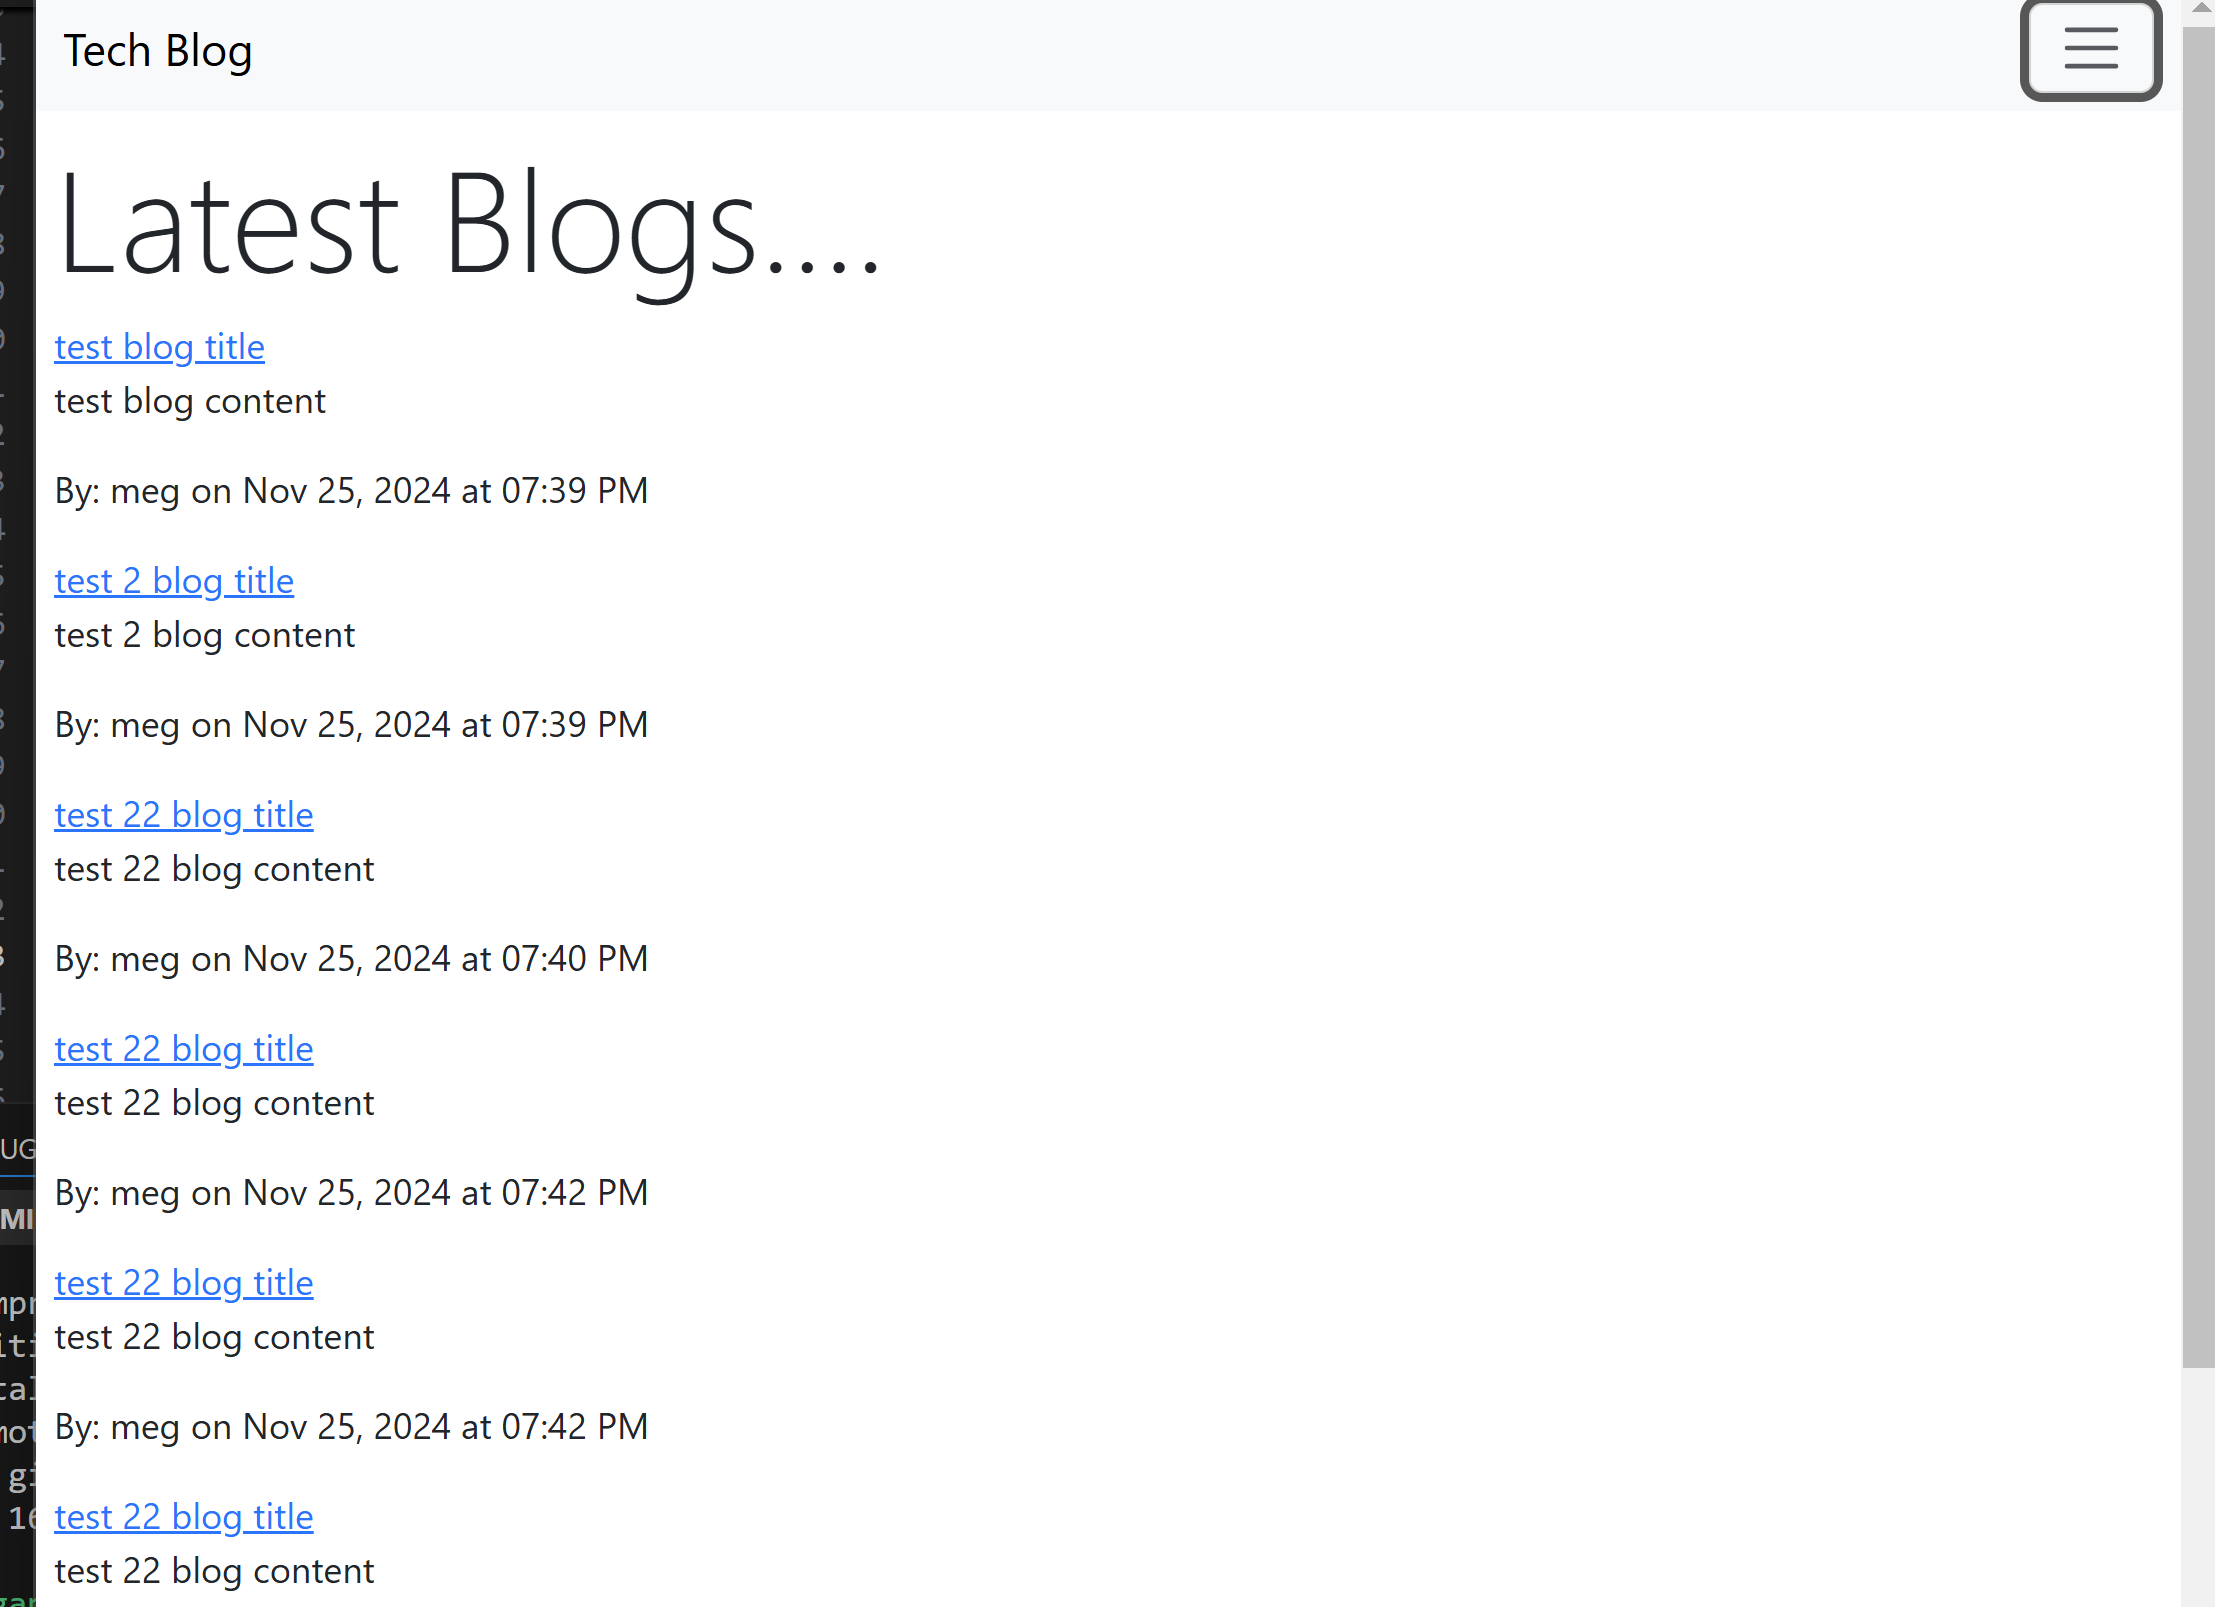
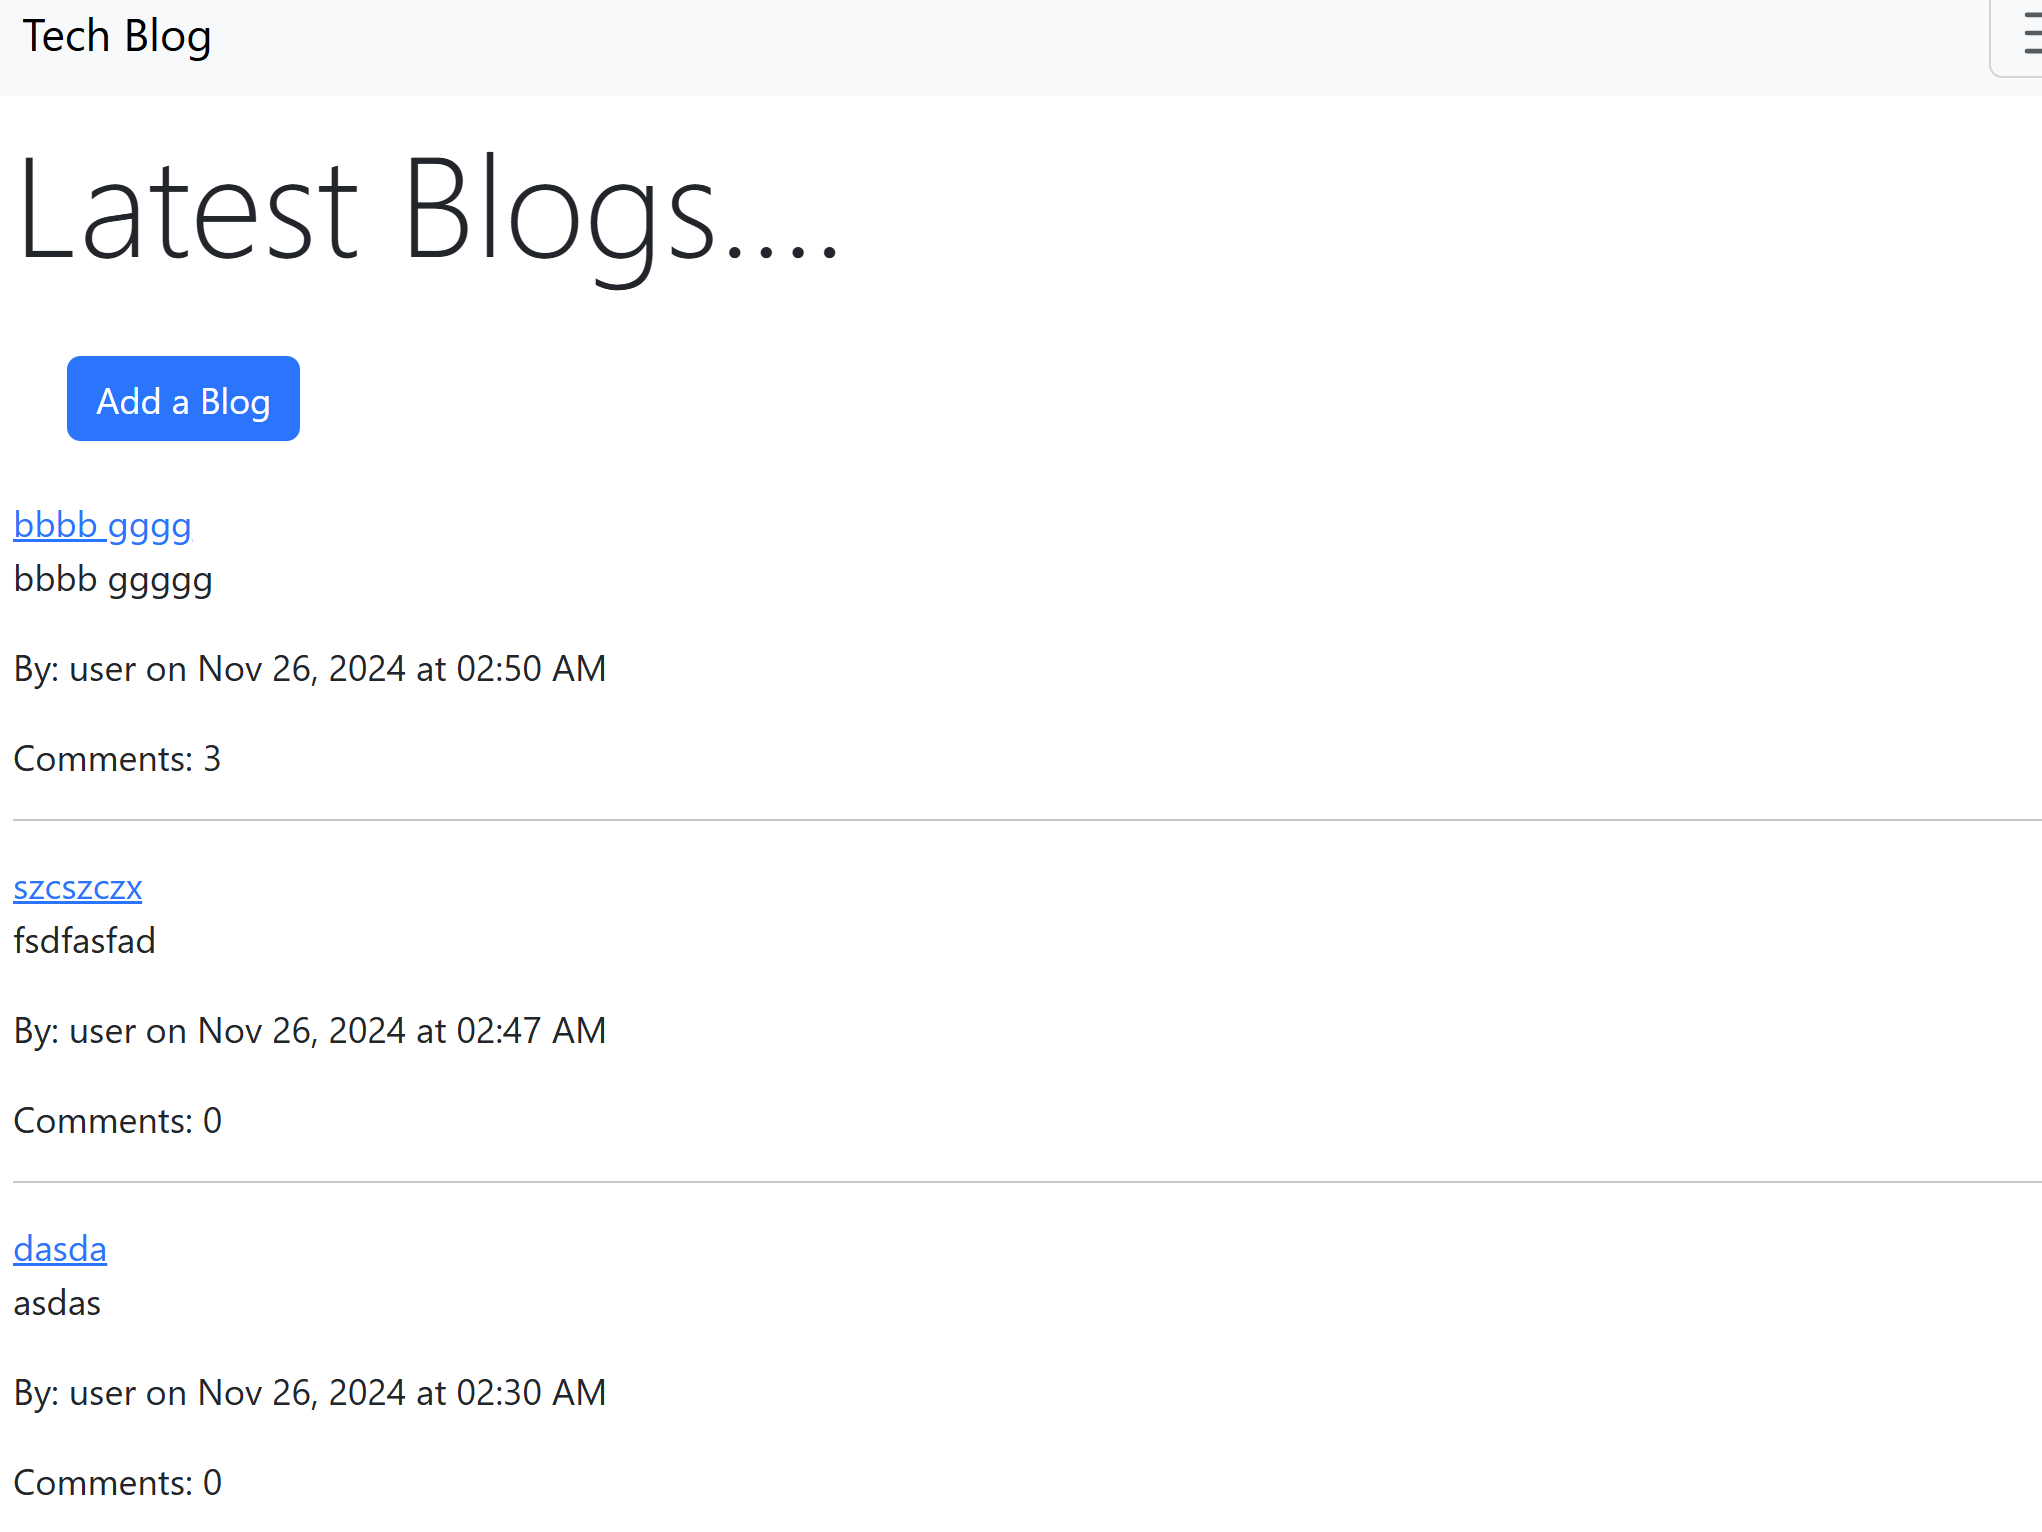
readme updated

Changed region(s): [[0.0, 0.0, 0.4011, 1.0], [0.8947, 0.0, 1.0, 0.859]]

diff --git a/README.md b/README.md
@@ -42,6 +42,8 @@ Clone the repository, run the install command and then 'npm start:dev'. Then nav
 
 ![home](./assets/home.png)
 ![blog](./assets/blog.png)
+![add](./assets/add.png)
+![edit](./assets/edit.png)
 
 ---
 
